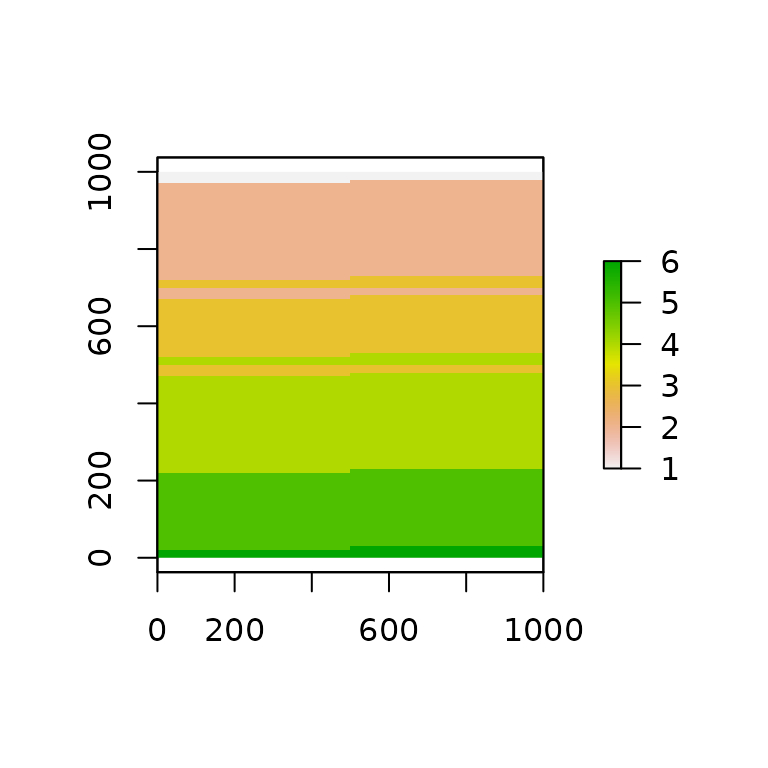
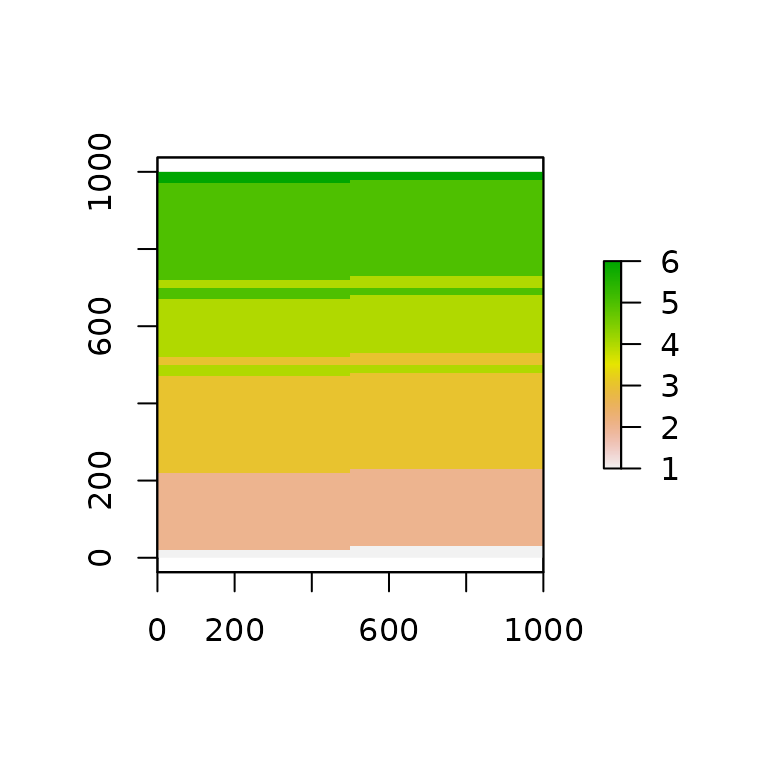
Built site for ccviR: 0.0.0.9005@6784b1f

Changed region(s): [[0.1875, 0.2188, 0.7188, 0.75]]

diff --git a/reference/run_spatial.html b/reference/run_spatial.html
@@ -28,7 +28,7 @@ appropriate scales."><!-- mathjax --><script src="https://cdnjs.cloudflare.com/a
   <a href="../reference/index.html">Reference</a>
 </li>
 <li class="dropdown">
-  <a href="#" class="dropdown-toggle" data-toggle="dropdown" role="button" aria-expanded="false">
+  <a href="#" class="dropdown-toggle" data-toggle="dropdown" role="button" data-bs-toggle="dropdown" aria-expanded="false">
     Articles
      
     <span class="caret"></span>
@@ -172,7 +172,7 @@ for which the range within the extent of the climate data is used.</p>
 <span class="r-out co"><span class="r-pr">#&gt;</span> <span style="color: #949494;"># A tibble: 1 × 27</span></span>
 <span class="r-out co"><span class="r-pr">#&gt;</span>   MAT_1 MAT_2 MAT_3 MAT_4 MAT_5 MAT_6 CMD_1 CMD_2 CMD_3 CMD_4 CMD_5 CMD_6 CCEI_1</span>
 <span class="r-out co"><span class="r-pr">#&gt;</span>   <span style="color: #949494; font-style: italic;">&lt;dbl&gt;</span> <span style="color: #949494; font-style: italic;">&lt;dbl&gt;</span> <span style="color: #949494; font-style: italic;">&lt;dbl&gt;</span> <span style="color: #949494; font-style: italic;">&lt;dbl&gt;</span> <span style="color: #949494; font-style: italic;">&lt;dbl&gt;</span> <span style="color: #949494; font-style: italic;">&lt;dbl&gt;</span> <span style="color: #949494; font-style: italic;">&lt;dbl&gt;</span> <span style="color: #949494; font-style: italic;">&lt;dbl&gt;</span> <span style="color: #949494; font-style: italic;">&lt;dbl&gt;</span> <span style="color: #949494; font-style: italic;">&lt;dbl&gt;</span> <span style="color: #949494; font-style: italic;">&lt;dbl&gt;</span> <span style="color: #949494; font-style: italic;">&lt;dbl&gt;</span>  <span style="color: #949494; font-style: italic;">&lt;dbl&gt;</span></span>
-<span class="r-out co"><span class="r-pr">#&gt;</span> <span style="color: #BCBCBC;">1</span>    10    90     0     0     0     0    10    90     0     0     0     0     <span style="color: #BB0000;">NA</span></span>
+<span class="r-out co"><span class="r-pr">#&gt;</span> <span style="color: #BCBCBC;">1</span>     0     0     0     0    90    10     0     0     0     0    90    10     <span style="color: #BB0000;">NA</span></span>
 <span class="r-out co"><span class="r-pr">#&gt;</span> <span style="color: #949494;"># … with 14 more variables: CCEI_2 &lt;dbl&gt;, CCEI_3 &lt;dbl&gt;, CCEI_4 &lt;dbl&gt;,</span></span>
 <span class="r-out co"><span class="r-pr">#&gt;</span> <span style="color: #949494;">#   perc_non_breed_not_over_ccei &lt;dbl&gt;, HTN_1 &lt;dbl&gt;, HTN_2 &lt;dbl&gt;, HTN_3 &lt;dbl&gt;,</span></span>
 <span class="r-out co"><span class="r-pr">#&gt;</span> <span style="color: #949494;">#   HTN_4 &lt;dbl&gt;, PTN &lt;dbl&gt;, MAP_max &lt;dbl&gt;, MAP_min &lt;dbl&gt;, range_change &lt;dbl&gt;,</span></span>

diff --git a/articles/package_vignette.html b/articles/package_vignette.html
@@ -43,7 +43,7 @@
   <a href="../reference/index.html">Reference</a>
 </li>
 <li class="dropdown">
-  <a href="#" class="dropdown-toggle" data-toggle="dropdown" role="button" aria-expanded="false">
+  <a href="#" class="dropdown-toggle" data-toggle="dropdown" role="button" data-bs-toggle="dropdown" aria-expanded="false">
     Articles
      
     <span class="caret"></span>
@@ -205,7 +205,7 @@
 <span class="co">#&gt; <span style="color: #949494;"># A tibble: 1 × 6</span></span>
 <span class="co">#&gt;   MAT_1 MAT_2 MAT_3 MAT_4 MAT_5 MAT_6</span>
 <span class="co">#&gt;   <span style="color: #949494; font-style: italic;">&lt;dbl&gt;</span> <span style="color: #949494; font-style: italic;">&lt;dbl&gt;</span> <span style="color: #949494; font-style: italic;">&lt;dbl&gt;</span> <span style="color: #949494; font-style: italic;">&lt;dbl&gt;</span> <span style="color: #949494; font-style: italic;">&lt;dbl&gt;</span> <span style="color: #949494; font-style: italic;">&lt;dbl&gt;</span></span>
-<span class="co">#&gt; <span style="color: #BCBCBC;">1</span>    10    90     0     0     0     0</span></code></pre></div>
+<span class="co">#&gt; <span style="color: #BCBCBC;">1</span>     0     0     0     0    90    10</span></code></pre></div>
 </div>
 <div class="section level2">
 <h2 id="answer-the-vulnerability-questions">Answer the vulnerability questions<a class="anchor" aria-label="anchor" href="#answer-the-vulnerability-questions"></a>

diff --git a/404.html b/404.html
@@ -42,7 +42,7 @@
   <a href="https://landscitech.github.io/ccviR/reference/index.html">Reference</a>
 </li>
 <li class="dropdown">
-  <a href="https://landscitech.github.io/ccviR/#" class="dropdown-toggle" data-toggle="dropdown" role="button" aria-expanded="false">
+  <a href="https://landscitech.github.io/ccviR/#" class="dropdown-toggle" data-toggle="dropdown" role="button" data-bs-toggle="dropdown" aria-expanded="false">
     Articles
      
     <span class="caret"></span>

diff --git a/reference/comb_index_tbl.html b/reference/comb_index_tbl.html
@@ -27,7 +27,7 @@ to climate change (D) sections"><!-- mathjax --><script src="https://cdnjs.cloud
   <a href="../reference/index.html">Reference</a>
 </li>
 <li class="dropdown">
-  <a href="#" class="dropdown-toggle" data-toggle="dropdown" role="button" aria-expanded="false">
+  <a href="#" class="dropdown-toggle" data-toggle="dropdown" role="button" data-bs-toggle="dropdown" aria-expanded="false">
     Articles
      
     <span class="caret"></span>

diff --git a/reference/get_clim_vars.html b/reference/get_clim_vars.html
@@ -28,7 +28,7 @@ using run_prep_data."><!-- mathjax --><script src="https://cdnjs.cloudflare.com/
   <a href="../reference/index.html">Reference</a>
 </li>
 <li class="dropdown">
-  <a href="#" class="dropdown-toggle" data-toggle="dropdown" role="button" aria-expanded="false">
+  <a href="#" class="dropdown-toggle" data-toggle="dropdown" role="button" data-bs-toggle="dropdown" aria-expanded="false">
     Articles
      
     <span class="caret"></span>

diff --git a/reference/plot_q_score.html b/reference/plot_q_score.html
@@ -29,7 +29,7 @@ name of the factor."><!-- mathjax --><script src="https://cdnjs.cloudflare.com/a
   <a href="../reference/index.html">Reference</a>
 </li>
 <li class="dropdown">
-  <a href="#" class="dropdown-toggle" data-toggle="dropdown" role="button" aria-expanded="false">
+  <a href="#" class="dropdown-toggle" data-toggle="dropdown" role="button" data-bs-toggle="dropdown" aria-expanded="false">
     Articles
      
     <span class="caret"></span>

diff --git a/reference/plot_score_index.html b/reference/plot_score_index.html
@@ -28,7 +28,7 @@ score affects the index value."><!-- mathjax --><script src="https://cdnjs.cloud
   <a href="../reference/index.html">Reference</a>
 </li>
 <li class="dropdown">
-  <a href="#" class="dropdown-toggle" data-toggle="dropdown" role="button" aria-expanded="false">
+  <a href="#" class="dropdown-toggle" data-toggle="dropdown" role="button" data-bs-toggle="dropdown" aria-expanded="false">
     Articles
      
     <span class="caret"></span>

diff --git a/reference/run_ccvi_app.html b/reference/run_ccvi_app.html
@@ -28,7 +28,7 @@ for details on how to use the app.'><!-- mathjax --><script src="https://cdnjs.c
   <a href="../reference/index.html">Reference</a>
 </li>
 <li class="dropdown">
-  <a href="#" class="dropdown-toggle" data-toggle="dropdown" role="button" aria-expanded="false">
+  <a href="#" class="dropdown-toggle" data-toggle="dropdown" role="button" data-bs-toggle="dropdown" aria-expanded="false">
     Articles
      
     <span class="caret"></span>

diff --git a/reference/run_prep_data.html b/reference/run_prep_data.html
@@ -27,7 +27,7 @@ NatureServe Guidelines for details on how the data is prepared."><!-- mathjax --
   <a href="../reference/index.html">Reference</a>
 </li>
 <li class="dropdown">
-  <a href="#" class="dropdown-toggle" data-toggle="dropdown" role="button" aria-expanded="false">
+  <a href="#" class="dropdown-toggle" data-toggle="dropdown" role="button" data-bs-toggle="dropdown" aria-expanded="false">
     Articles
      
     <span class="caret"></span>

diff --git a/reference/trim_ras.html b/reference/trim_ras.html
@@ -27,7 +27,7 @@ not memory safe but raster::trim takes over an hour while this takes ~30s"><!-- 
   <a href="../reference/index.html">Reference</a>
 </li>
 <li class="dropdown">
-  <a href="#" class="dropdown-toggle" data-toggle="dropdown" role="button" aria-expanded="false">
+  <a href="#" class="dropdown-toggle" data-toggle="dropdown" role="button" data-bs-toggle="dropdown" aria-expanded="false">
     Articles
      
     <span class="caret"></span>

diff --git a/reference/vulnq_code_lu_tbl.html b/reference/vulnq_code_lu_tbl.html
@@ -27,7 +27,7 @@ whether the factor is calculated by the spatial analysis."><!-- mathjax --><scri
   <a href="../reference/index.html">Reference</a>
 </li>
 <li class="dropdown">
-  <a href="#" class="dropdown-toggle" data-toggle="dropdown" role="button" aria-expanded="false">
+  <a href="#" class="dropdown-toggle" data-toggle="dropdown" role="button" data-bs-toggle="dropdown" aria-expanded="false">
     Articles
      
     <span class="caret"></span>

diff --git a/reference/make_vuln_df.html b/reference/make_vuln_df.html
@@ -31,7 +31,7 @@ instructions on how to score species. Values can be -1: Unknown, 0: Neutral,
   <a href="../reference/index.html">Reference</a>
 </li>
 <li class="dropdown">
-  <a href="#" class="dropdown-toggle" data-toggle="dropdown" role="button" aria-expanded="false">
+  <a href="#" class="dropdown-toggle" data-toggle="dropdown" role="button" data-bs-toggle="dropdown" aria-expanded="false">
     Articles
      
     <span class="caret"></span>
